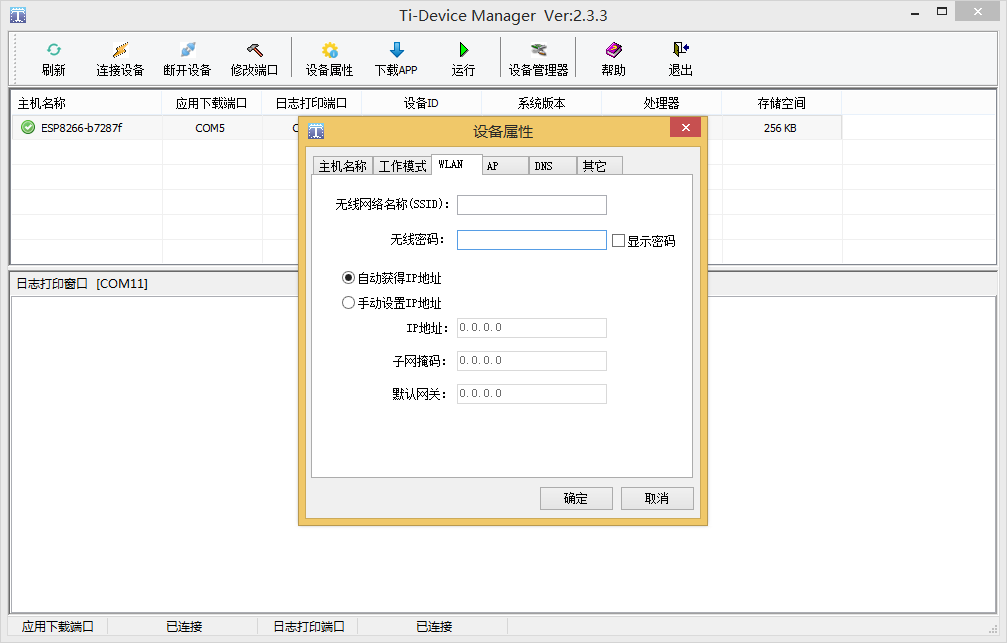
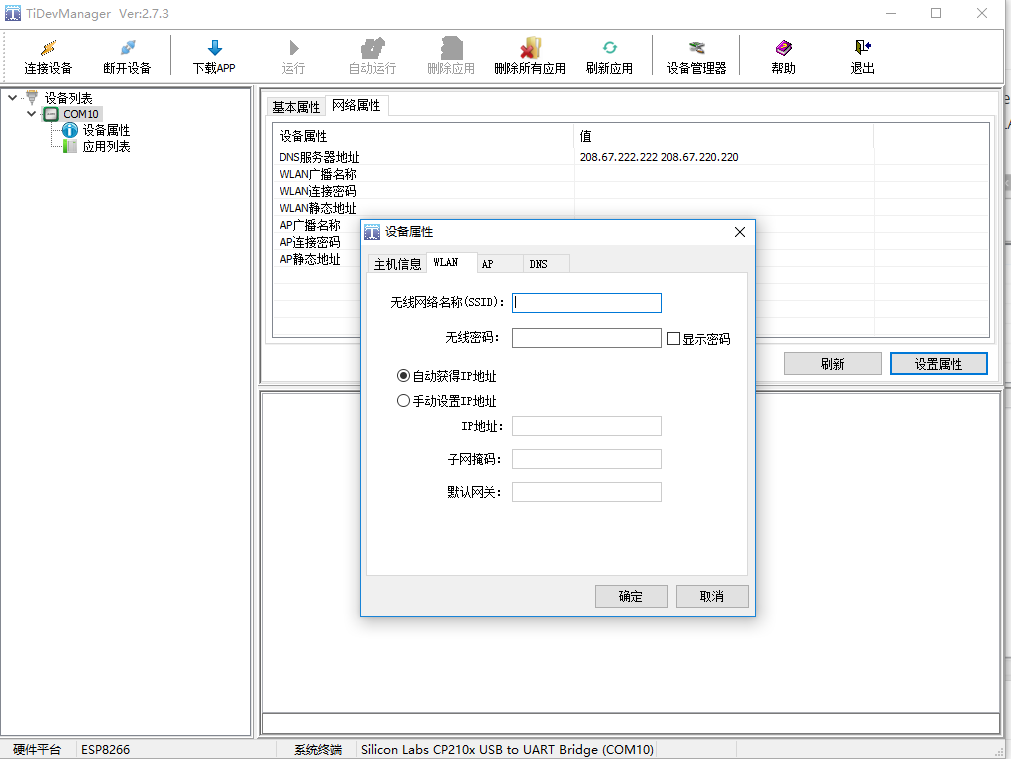
Update samples and documents

Changed region(s): [[0.0, 0.0, 1.0, 1.0], [0.5233, 0.3421, 0.5541, 0.3733]]

diff --git a/TiJOSApp/Application/src/net/tijos/aliyun/Main.java b/TiJOSApp/Application/src/net/tijos/aliyun/Main.java
@@ -3,29 +3,31 @@ package net.tijos.aliyun;
 import java.io.IOException;
 import java.util.Formatter;
 
-import tijos.framework.networkcenter.TiDNS;
-import tijos.framework.networkcenter.TiWLAN;
+import tijos.framework.networkcenter.dns.TiDNS;
+import tijos.framework.platform.wlan.TiWiFi;
 import tijos.framework.networkcenter.mqtt.MqttClient;
 import tijos.framework.networkcenter.mqtt.MqttClientListener;
 import tijos.framework.networkcenter.mqtt.MqttConnectOptions;
 
+//"product_key":"b1ijiAZqEdV","device_name":"tikit-demo","device_secret":"iEANyI5Id9alYDNe2K6dBD6omsGWWKLY",
 
 public class Main {
 	
 	private static final long timestamp = System.currentTimeMillis();
-	private static final String PRODUCT_KEY = "IK5KVAPpndB";
-	private static final String DEVICE_NAME = "ESP8266-000001";//System.getProperty("host.name");
+	private static final String PRODUCT_KEY = "b1ijiAZqEdV";
+	private static final String DEVICE_NAME = "tikit-demo";//System.getProperty("host.name");
 	private static final String CLIENT_ID = format("%s|securemode=3,signmethod=hmacsha1,timestamp=%d|", DEVICE_NAME, timestamp);
 	private static final String BROKER = format("tcp://%s.iot-as-mqtt.cn-shanghai.aliyuncs.com:1883", PRODUCT_KEY);
 	private static final String USER_NAME = format("%s&%s", DEVICE_NAME, PRODUCT_KEY);
-	private static final String USER_KEY = "9LDpw47Ja0Lx0kfeXAOzdWoMMqEpWT3q";
+	private static final String USER_KEY = "iEANyI5Id9alYDNe2K6dBD6omsGWWKLY";
 	private static final String USER_PASS = HmacSHA1.getHmacSHA1(USER_KEY, format("clientId%sdeviceName%sproductKey%stimestamp%d", DEVICE_NAME, DEVICE_NAME, PRODUCT_KEY, timestamp));
 
-	private static final String TOPIC = "/" + PRODUCT_KEY + "/" + DEVICE_NAME + "/message";
+	private static final String TOPIC = "/" + PRODUCT_KEY + "/" + DEVICE_NAME + "/data";
 	
 
 	public static void main(String[] args) throws IOException {
-		TiWLAN.getInstance().startup(10000);
+		
+		TiWiFi.getInstance().startup(10000);
 		TiDNS.getInstance().startup();
 				
 		MqttConnectOptions connOpts = new MqttConnectOptions();

diff --git a/README.md b/README.md
@@ -29,33 +29,53 @@
 
 ![20171120134724](./img/20171120134724.png)
 
-继续点击菜单中的设备管理，然后点击添加设备按钮弹出对话框并输入设备名称，建议输入设备中获取的硬件名称，此处输入ESP-000001。创建成功后点击设备名称可以看见设备的创建信息，此处的deviceSecret需要记录，代码中将会使用到。
+继续点击菜单中的设备管理，然后点击添加设备按钮弹出对话框并输入设备名称，建议输入设备中获取的硬件名称，此处输入tikit-demo。创建成功后点击设备名称可以看见设备的创建信息，此处的deviceSecret需要记录，代码中将会使用到。
+
+### 创建设备
 
 ![20171120131818](./img/20171120131818.png)
 
 ![20171120132049](./img/20171120132049.png)
 
+### 设备列表
+
 ![20171120133308](./img/20171120133308.png)
 
 ![20171120142602](./img/20171120142602.png)
 
+
+
+### 创建Topic
+
+从产品管理页面下为该设备创建可发布可订阅的TOPIC:  data  ,如下图所示:
+
+![1528861493086](.\img\1528861493086.png)
+
 ## 接入网络
 
-在开发前需要将ESP-8266开发板接入网络，ESP-8266支持WIFI，通过Ti-Device Manager工具设置网络接入参数。ESP-8266开发板连接电脑后，在Ti-Device Manager菜单中点击设备属性按钮弹出对话框选择WLAN选项卡，输入无线网络名称和无线密码完成配置，开发板重启后即自动连接到指定的网络。
+在开发前需要将TiKit-T600-ESP8266A开发板接入网络，TiKit-T600-ESP8266A支持WIFI，通过TiDeviceManager工具设置网络接入参数。开发板连接电脑后，在TiDeviceManager菜单中点击设备属性按钮弹出对话框选择WLAN选项卡，输入无线网络名称和无线密码完成配置，开发板重启后即自动连接到指定的网络。
 
 ![20171123103501](./img/20171123103501.png)
 
 ## 代码编译
 
-从GitHub下载已完成的代码，通过Ti-Dev Studio导入到Workspace中（注：Ti-Dev Studio工具的安装请参考文档《Ti-Dev Studio用户手册》）。在Ti-Dev Studio中可以看到工程基于TiJOS Framework开发，所有源码和API都是Java代码，依托于Java的跨平台特性，我们可以将代码运行在任何硬件平台上。TiJOS Framework对各种外设传感器做了抽象封装，通过API可方便快捷的操作外设硬件。下面将修改工程源码进行上线前调试。
+从GitHub下载已完成的代码，通过TiStudio导入到Workspace中（注：TiStudio工具的安装请参考文档《TiStudio用户手册》）。在TiStudio中可以看到工程基于TiJOS Framework开发，所有源码和API都是Java代码，依托于Java的跨平台特性，我们可以将代码运行在任何硬件平台上。TiJOS Framework对各种外设传感器做了抽象封装，通过API可方便快捷的操作外设硬件。下面将修改工程源码进行上线前调试。
 
 ![20171123104401](./img/20171123104401.png)
 
 转到包net.tijos.aliyun下找到Main类，Main类包含基于MQTT协议的接入阿里云的代码，在代码前面部分有与连接相关的常量参数，分别对应设备名称、broker地址、用户名、用户密码。将参数修改为我们前面阿里云物联网套件下对应的数据，然后保存。接着将修改后的代码下载至设备中，下载步骤选中工程右键弹出菜单点击Run as --> TiJOS Application实时下载至硬件中。
 
-![20171123104341](./img/20171123104341.png)
+![20171123104341](E:\work\ti-github\tijos-mqtt-aliyun-iot\img\1528861943424.png)
 
 至此设备成功接入阿里云物联网，通过topic与阿里云IOT Hub通讯收发数据。
+
+### 查看日志
+
+从阿里云产品管理下的日志服务中选择上行消息分析，即可看到设备发送到阿里云的日志：
+
+![20171123104341](.\img\1528861943424.png)
+
+
 
 ## 总结
 
